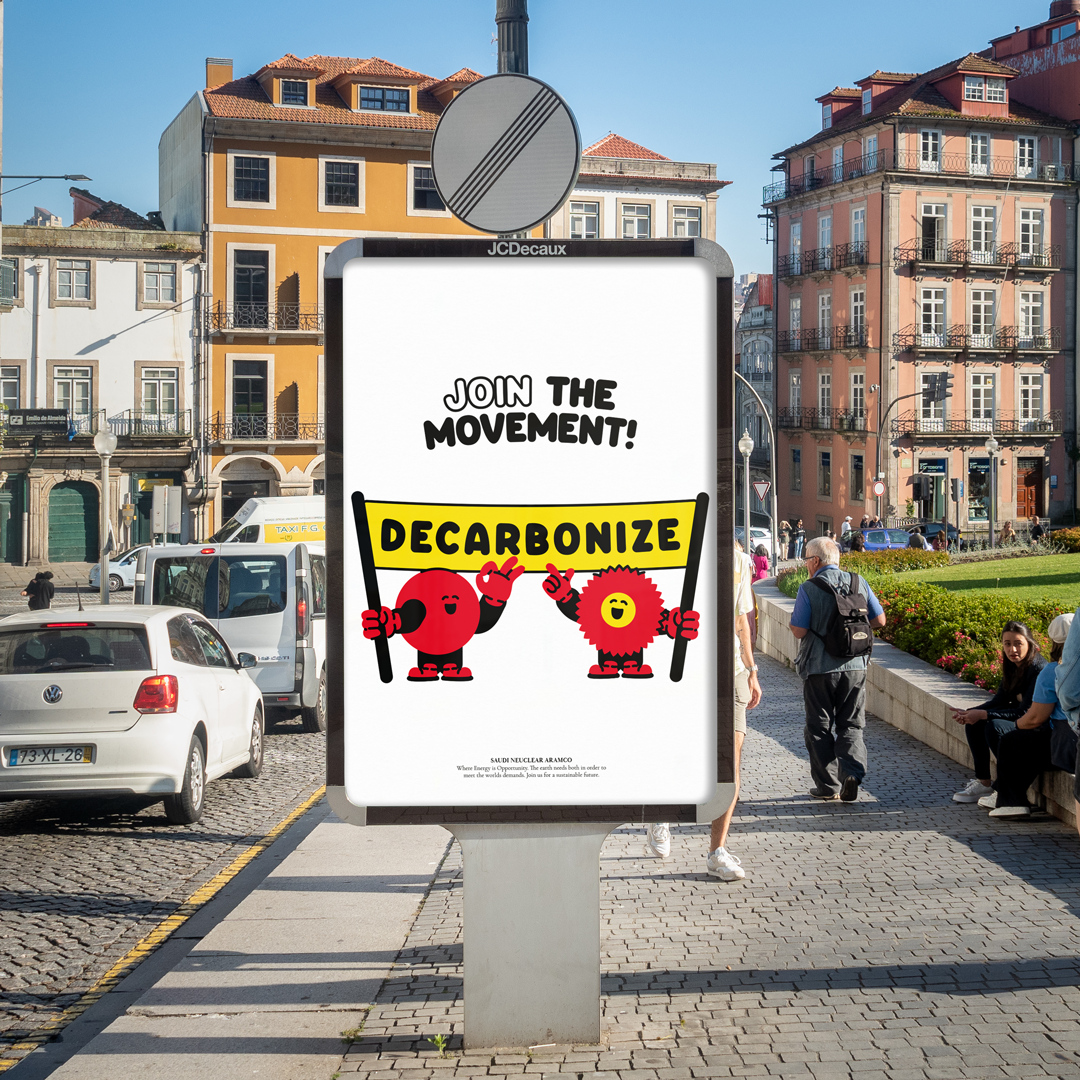
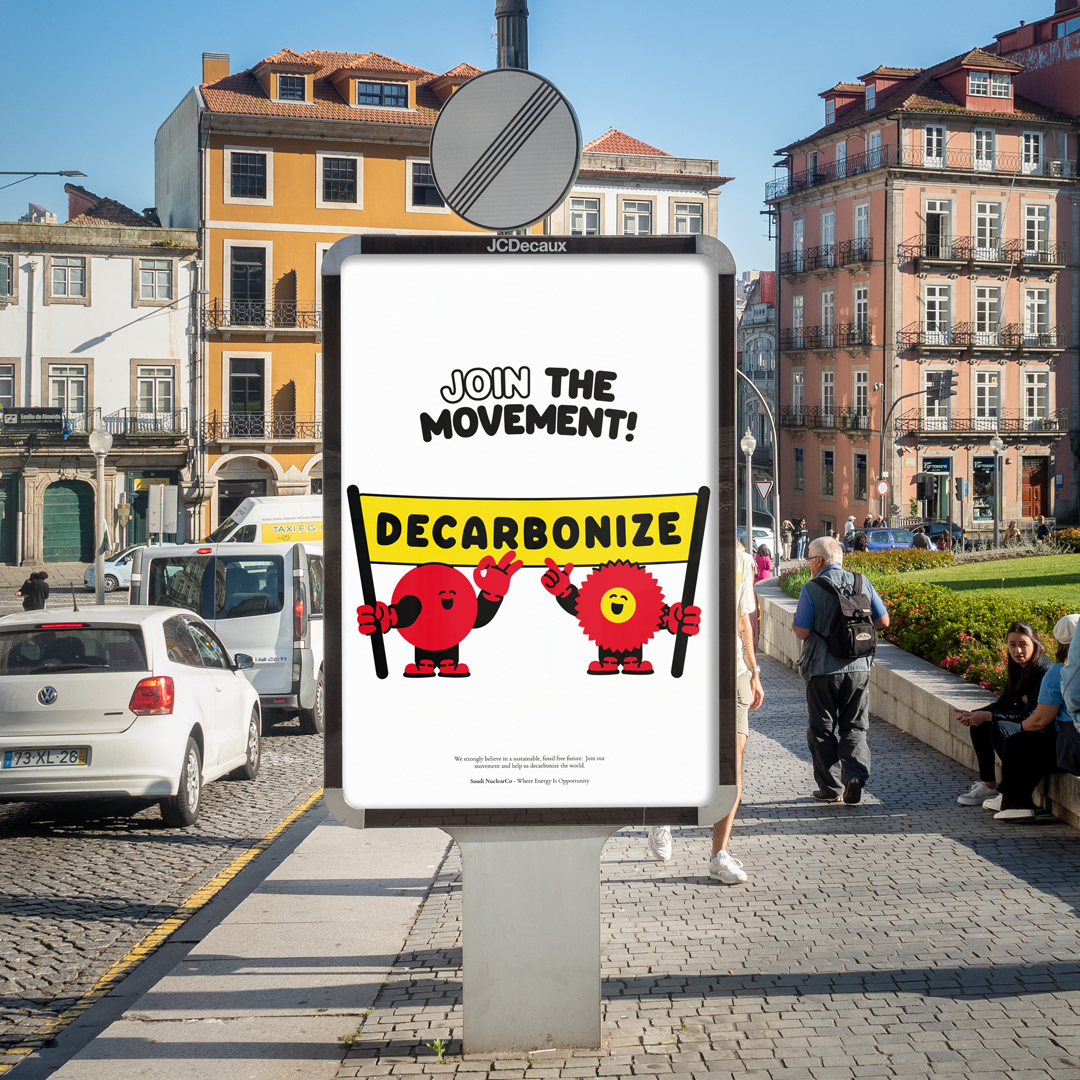
Uppdatering av 3/4 case

diff --git a/decarbonize.html b/decarbonize.html
@@ -55,12 +55,11 @@
       <section>
         <span>
           <h3><b>Insikt</b></h3>
-          <p>Det räcker inte med en typ av energiproduktion.</p>
-          <p>Däremot är kärnkraft ett bra alternativ i övergångsperioden till hållbarare alternativ. Vi behöver således både vind-, vatten- och kärnkraft för att <b>avkolisera</b> elproduktionen.</p>
+          <p>Det räcker inte med en typ av energiproduktion.</p> 
+          <p>Däremot är kärnkraft ett bra alternativ i övergångsperioden till hållbarare alternativ. Vi behöver således både vind-, vatten- och kärnkraft för att <b>”avkolisera”</b> elproduktionen.</p>
         <br>
           <h3><b>Idé</b></h3>
-          <p>Ett internationellt kärnkraftsföretag släpper en kampanj med huvudslagordet decarbonize. Kampanjen avser att avdramatisera diskussionen kring kärnkraft samtidigt fokus flyttas från avsändaren.</p>
-          <p>Kampanjen har en global målgrupp och lanseras i digitala kanaler för att sedan fokusera på OOH.</p>
+          <p>En kampanj med huvudslagordet <b>”decarbonize”</b>. Kampanjen avser att avdramatisera diskussionen kring kärnkraft samtidigt som fokus flyttas från avsändaren.</p>
       </section>
        <div class="case-content">
         <img src="img\Case1\mock_poster_3.png" alt="">
@@ -69,14 +68,11 @@
             <img src="img\Case1\mock_poster_1.png" alt="">
         </span>
         <span class="text-container">
-            <p>Utöver att synas OOH ser vi en stor potential i rörligt material där karaktärernas uttrycksfullhet får skina!</p>
+            <p>Utöver att synas OOH finns stor potential i låta karaktärernas uttrycksfullhet skina i rörligt material.</p>
         </span>
         <span class="case-content video">
             <img src="img\Case1\mock_ani_flag.gif" alt="">
             <img src="img\Case1\mock_ani_sun.gif" alt="">
-        </span>
-        <span class="text-container">
-            <p>Fler prints.</p>
         </span>
         
         <span class="case-content three">
@@ -86,6 +82,13 @@
             <img src="img\Case1\ue_poster_4.png" alt="">
             <img src="img\Case1\ue_poster_5.png" alt="">
             <img src="img\Case1\ue_poster_6.png" alt="">
+        </span>
+        <span class="text-container">
+            <p>Texten på ovanstående exempel lyder:</p>
+            <p>
+              We strongly believe in a sustainable, fossil free future.  Join our movement and help us decarbonize the world. 
+              
+              Saudi NuclearCo - Where Energy Is Opportunity</p>
         </span>
 
         <span class="small-spacer"></span>

diff --git a/bostadstillskott.html b/bostadstillskott.html
@@ -58,8 +58,8 @@
           <br>
           <h3><b>Idé</b></h3>
           <p>Använd hälsotillskott som en metafor för jagvillhabostads verksamhet.</p>
-          <p>Genom att använda oss av en visuell metafor i form av en pillerburk som vi kallar för bostadstillskott kan vi direkt förankra kampanjen i ett etablerat design manér och därmed lyfta humorn i vår kommunikation.</p>
-          <p>Kampanjen lanseras i Göteborg, Malmö, Umeå, Uppsala & Stockholm med fokus på OOH.</p>
+          <p>Genom att använda oss av en metafor, pillerburken, som vi kallar för bostadstillskott kan vi direkt förankra kampanjen i ett etablerat manér och därmed använda oss av en subtil humor i kommunikationen.</p>
+          <p>Kampanjen lanseras OOH i alla Svenska storstäder.</p>
       </section>
        <div class="case-content">
         <img src="img\Case2\mock_poster_4.png" alt="">
@@ -69,13 +69,13 @@
         </span>
         <img src="img\Case2\mock_poster_1.png" alt="">
         <span class="text-container">
-          <p>Uttagen är tänkta att synas på alla OOH ytor.</p>
-          <p>Istället för att lägga text på bild kan budskapen skrivas direkt på burken och visas upp på stora ytor där läsbarheten är god nog. Exempelvis busshållplatser runt om i landet.</p>
+          <p>OOH annonser i en Göteborgsmiljö.</p>
+          <p>Målet är att förankra pillerburken till den punkt att den blir ett dagligt möte. Detta ger möjligheter att använda sig av enbart burken som ett kommunikationsverktyg. Ovan syns ett exempel på hur budskapet kan förmedlas på större ytor, genom att sätta budskapet direkt på burken.</p>
         </span>
         
         <img src="img\Case2\ue_poster_2.png" alt="">
         <span class="text-container">
-            <p>När ytorna inte är stora nog kan vi nöja oss med A2 eller tillochmed A3.</p>
+            <p>För mindre storlekar finns alternativ med text på platta.</p>
         </span>
         <span class="case-content">
             <img src="img\Case2\ue_poster_1.png" alt="">

diff --git a/matsvinn.html b/matsvinn.html
@@ -47,12 +47,14 @@
       <section id="home">
         <div class="praktik"><p>PRAKTIK SÖKES</p></div>
         <span class="relative-container">
-          <h2>Matsvinn</h2>
+          <h2>Lita på dina sinnen igen</h2>
           <small>Fiktiv branding & kampanj</small>
           <hr />
           <h3><b>Uppgift</b></h3>
           <p>
-            Matsvinn är ett problem.
+            Utveckla ett kampanjkoncept med syfte att minska mängden mat som
+slängs i hushållen.
+
           </p>
           <a href="index.html" class="hidden" id="back">
             <button>← Till startsida</button>
@@ -62,12 +64,13 @@
       <section>
         <span>
           <h3><b>Insikt</b></h3>
-          <p>Vi svinnar mat för att vi rädda pga okunnighet.</p>
-          <p>Skriv ngt mer</p>
+          <p>Vi litar inte på våra sinnen längre.</p>
+          <p>Vi slänger maten för att vi inte längre litar på våra sinnen. Kommer vi verkligen ihåg om en mjuk morot är ätbar? Hur luktar utgången havremjölk?</p>
         <br>
           <h3><b>Idé</b></h3>
-          <p>Lorem ipsum</p>
-          <p>Skriv ngt mer</p>
+          <p>Lita på dina sinnen igen.</p>
+          <p>Genom att byta ut datummärkningen på livsmedelsprodukter med de tankar som som går igenom vår huvuden när vi avgör huruvida de är ätbara eller inte uppstår empati. Empati bidrar också till ett större förtroende vilket i sin tur gör mottagaren mer benägen att ta till sig avsändarens budskap.
+          </p>
       </section>
        <div class="case-content">
         <img src="img\Case4\0_intro.png" alt="">
@@ -82,7 +85,7 @@
             <img src="img\Case4\mock_ani_2.gif" alt="">
         </span>
         <span class="text-container">
-            <p>Fler prints.</p>
+            <p>Materialet kan visas i print och även digitala kanaler, både som rörligt och stationärt.</p>
         </span>
       
         <span class="small-spacer"></span>

diff --git a/index.html b/index.html
@@ -62,7 +62,7 @@
           <small>Blivande art director</small>
           <hr />
           <p class="hidden">
-            Varmt välkommen ska du vara till min porfölj, du kan svepa upp och
+            Varmt välkommen ska du vara till min portfölj, du kan svepa upp och
             ner för att utforska!
           </p>
           <p class="hidden">
